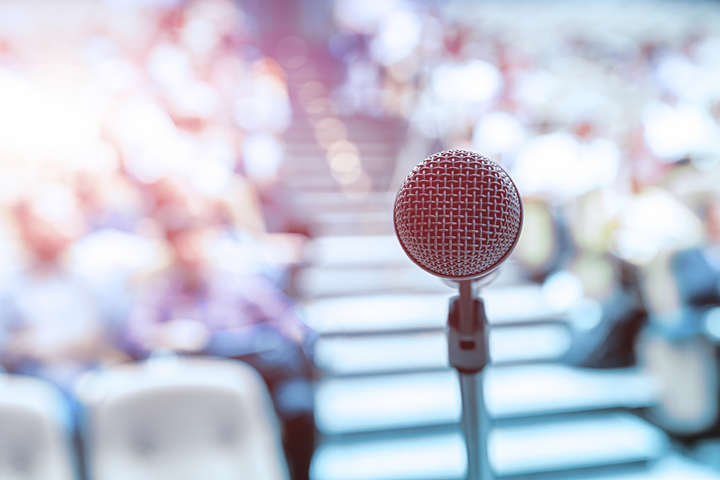
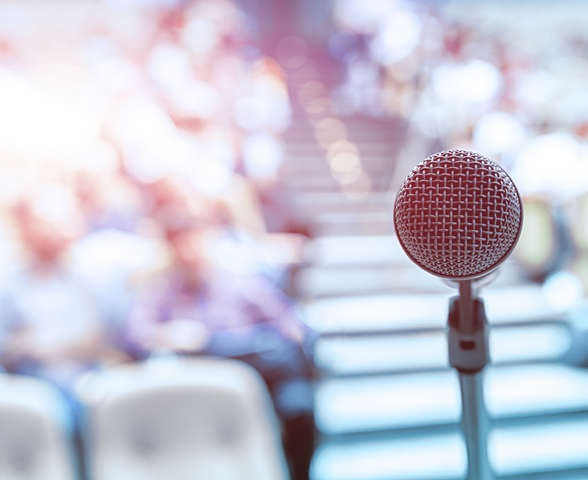
Alterações pedidas pelo wendell para apresentação no rio preto shopping

diff --git a/index.html b/index.html
@@ -57,21 +57,15 @@
 	<section class="hero" id="hero">
 		<div class="container">
 			<div class="caption">
-				<h1 class="text-uppercase animated wow fadeIn" data-wow-duration="4s">Conectando palestrantes com empresas e instituições de ensino</h1>
-				<p class="enhance text-lowercase  animated wow fadeInLeft"></p>
-				<a href="#" class="app_store_btn text-uppercase animated wow fadeInLeft" id="play_video" data-video="https://www.youtube.com/embed/lbD-7rsNKMY">
-					<i class="play_icon"></i>
-					<span>VIDEO SOBRE</span>
-				</a>
+				<h1 class="animated wow fadeIn" data-wow-duration="4s">CONECTANDO EMPRESAS À PALESTRANTES</h1>
+				<p class="enhance animated wow fadeInLeft">Encontre o palestrante ideal para o seu evento de maneira simples e rápida</p>
 			</div>
 		</div>
 	</section>
+
 	<!--  End Hero Section  -->
 
 
-	<div class="about_video show_video">
-		<a href="" class="close_video"></a>
-	</div>
 
 
 	<!--  Featured On Section  -->
@@ -107,7 +101,7 @@
 
 				<div class="col-md-6 animated wow fadeInRight">
 					<div class="features_list">
-						<h1 class="text-uppercase">Para empresas e instituições</h1>
+						<h1 class="text-uppercase">Para empresas</h1>
 						<p>Escolha o profissional mais adequado para o seu evento através da análise de perfil que a nossa plataforma oferece. Dentre as informações do perfil, destacam-se:</p>
 						<ul class="list-unstyled">
 							<li class="book_icon">

diff --git a/css/main.css b/css/main.css
@@ -176,7 +176,9 @@ header .social li:first-child {
   height: 560px;
   background: url('../img/hero.jpg') no-repeat fixed center center;
   background-size: cover;
+  filter: grayscale(30%);
 }
+
 .hero .caption {
   position: absolute;
   max-width: 550px;
@@ -190,7 +192,7 @@ header .social li:first-child {
 .hero .caption h1 {
   color: #525252;
   font-family: 'open_bold', Helvetica, Arial, sans-serif;
-  font-size: 30px;
+  font-size: 2.4em;
   font-weight: bold;
   word-break: break-word;
   line-height: 40px;
@@ -198,9 +200,9 @@ header .social li:first-child {
 .hero .caption p {
   color: #6d6c6c;
   font-family: 'open_regular', Helvetica, Arial, sans-serif;
-  font-size: 16px;
+  font-size: 1.4em;
   line-height: 30px;
-  margin: 15px 0 35px 0;
+  margin: 25px 0;
 }
 #slider .caption p {
   margin: 0;
@@ -702,7 +704,8 @@ footer .copyright a {
     position: absolute;
     max-width: 430px;
     margin-left: 80px;
-    top: 50%;
+    top: 40%;
+    left:0;
     transform: translate(0, -50%);
     -webkit-transform: translate(0, -50%);
     -moz-transform: translate(0, -50%);

diff --git a/css/ps.css b/css/ps.css
@@ -223,7 +223,3 @@ figure.big-ball.blue-ball span.small-text-ball {
     margin-bottom: 20px;
   }
 }
-@media (max-width: 1000px) {
-}
-@media (max-width: 1024px) {
-}
